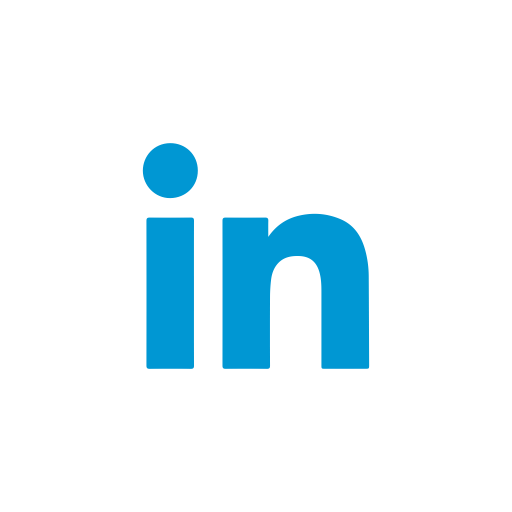
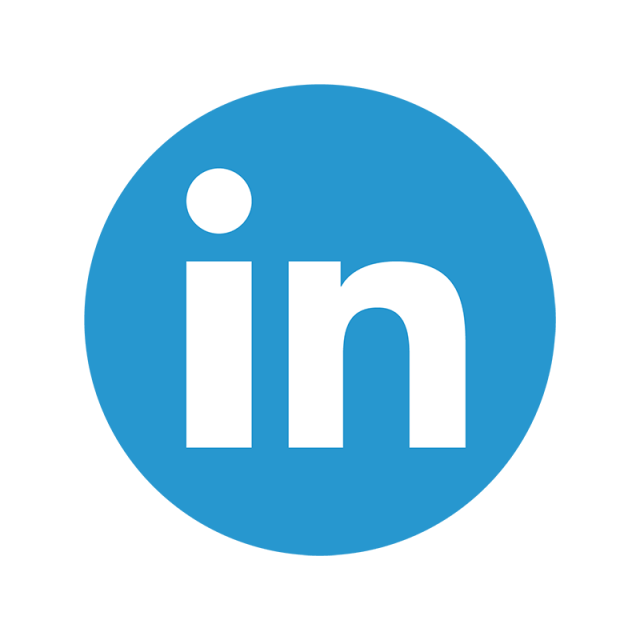
cambiando imagenes

diff --git a/index.html b/index.html
@@ -75,17 +75,17 @@
                         <div class="g1">
                             <div class="info text-center">
                                 <p>
-                                    Mi objetivo es participar en proyectos complejos de software los cuales tengan como objetivo la gestión y optimización de procesos los cuales mejoren el día a día de las personas, sean proyectos privados o públicos.
+                                    Mi objetivo es participar en proyectos complejos de software los cuales tengan como objetivo la gestión y optimización de procesos los cuales mejoren el día a día de las personas, sean proyectos públicos o privados.
                                 </p>
                                 <div class="main-links sidebar">
                                     <a href="https://twitter.com/jhonssegura/">
                                         <img src="images/twitter.png" alt="Twitter" width="40px" height="40px" align="center">
                                     </a> 
-                                    <a href="https://linkedin.com/in/jhonssegura/">
-                                        <img src="images/ln.png" alt="LinkedIn" width="40px" height="40px" align="center">
-                                    </a> 
                                     <a href="https://github.com/jhonssegura/">
-                                        <img src="images/github.png" alt="Github" width="40px" height="40px" align="center">
+                                        <img src="images/github.png" alt="Github" width="35px" height="35px" align="center">
+                                    </a> 
+                                    <a href="https://linkedin.com/in/jhonssegura/">
+                                        <img src="images/ln.png" alt="LinkedIn" width="45px" height="45px" align="center">
                                     </a> 
                                 </div>
                             </div>
